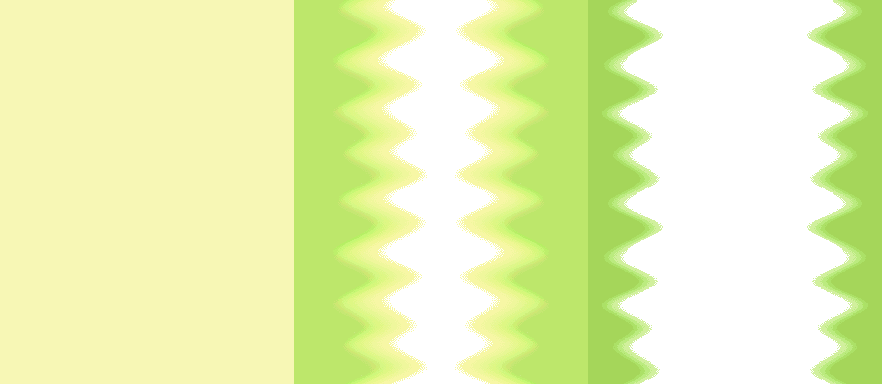
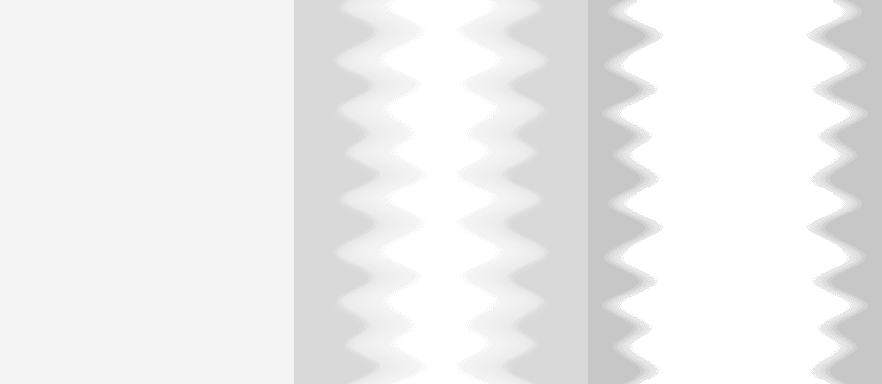
[~] Fix Dream animation & music, fix Ditto music

diff --git a/src/dream/dream.c b/src/dream/dream.c
@@ -10,30 +10,19 @@
 
 void clock_dream(wininf *inf, dream_a *dream)
 {
-    if (inf->time.ditto_anim > 0.1f) {
-        if (dream->b_dream[1].rect.top >= 192) {
-            dream->b_dream[1].rect.top = 0;
-        } else {
-            dream->b_dream[1].rect.top += 1;
-        }
-        if (dream->b_dream[2].rect.top <= 0) {
-            dream->b_dream[2].rect.top = 192;
-        } else {
-            dream->b_dream[2].rect.top -= 1;
-        }
+    if (inf->time.ditto_anim > 0.05f) {
+        if (dream->b_dream[1].rect.top >= 192) dream->b_dream[1].rect.top = 0;
+        else dream->b_dream[1].rect.top += 1;
+        if (dream->b_dream[2].rect.top <= 0) dream->b_dream[2].rect.top = 192;
+        else dream->b_dream[2].rect.top -= 1;
         inf->time.ditto_anim = 0.0f;
     }
-    if (inf->time.ditto_anim2 > 1.0f) {
-        // int rdm = rand() % 360;
-        // my_printf("%d\n", rdm);
+    if (inf->time.ditto_anim2 > 0.05f) {
         dream->color += 1;
-        my_printf("%d\n", dream->color);
         if (dream->color >= 360) dream->color = 0;
         sfColor changecolor = my_hsvtorgb(dream->color, 100, 100);
-        // sfColor changecolor = {rand() % 255, rand() % 255, rand() % 255, 255};
-        for (int i = 0; i < 3; i++) {
+        for (int i = 0; i < 3; i++)
             sfSprite_setColor(inf->dream->b_dream[i].sprite, changecolor);
-        }
         inf->time.ditto_anim2 = 0.0f;
     }
 }
@@ -42,7 +31,7 @@ void draw_dream(wininf *inf)
 {
     if (inf->dream == NULL) inf->dream = create_dream(inf);
     if (inf->dream->plan != DELETEDREAM) {
-        if (sfMusic_getStatus(inf->dream->music) == 0)
+        if (sfMusic_getStatus(inf->dream->music) != sfPlaying)
             sfMusic_play(inf->dream->music);
         clock_dream(inf, inf->dream);
         for (int i = 0; i < 3; i++)

diff --git a/src/dream/create_dream.c b/src/dream/create_dream.c
@@ -14,17 +14,22 @@ dream_a *create_dream(wininf *inf)
 {
     dream_a *dream = malloc(sizeof(dream_a));
     dream->plan = DREAMINIT;
-    dream->b_dream[0] = c_eles("dreams.png", (sfVector2f) {0, 0},
+    dream->b_dream[0] = c_eles("dreams_1.png", (sfVector2f) {0, 0},
     (sfIntRect) {0, 0, 882 / 3, 384});
     dream->b_dream[0].resize = (sfVector2f) {6.530612245, 5.625};
-    dream->b_dream[1] = c_eles("dreams.png", (sfVector2f) {0, 0},
+    dream->b_dream[1] = c_eles("dreams_1.png", (sfVector2f) {0, 0},
     (sfIntRect) {882 / 3, 0, 882 / 3, 384});
     dream->b_dream[1].resize = (sfVector2f) {6.530612245, 5.625};
-    dream->b_dream[2] = c_eles("dreams.png", (sfVector2f) {0, 0},
+    dream->b_dream[2] = c_eles("dreams_1.png", (sfVector2f) {0, 0},
     (sfIntRect) {882 / 3 + 882 / 3, 192, 882 / 3, 384});
     dream->b_dream[2].resize = (sfVector2f) {6.530612245, 5.625};
     dream->color = 0;
+    sfColor changecolor = my_hsvtorgb(dream->color, 50, 100);
+    for (int i = 0; i < 3; i++) {
+        sfSprite_setColor(dream->b_dream[i].sprite, changecolor);
+    }
     dream->music =
     sfMusic_createFromFile("music/04_welcome_to_the_world_of_pokemon.ogg");
+    sfMusic_setLoop(dream->music, sfTrue);
     return dream;
 }

diff --git a/src/ditto/create_ditto.c b/src/ditto/create_ditto.c
@@ -52,6 +52,6 @@ ditto_a *create_ditto(wininf *inf)
     sfSprite_setColor(cditto->ditto[3].sprite,
         (sfColor){ditto3.r, ditto3.g, ditto3.b, ditto3.a - 125});
     cditto->conga = sfMusic_createFromFile("music/00_conga.ogg");
-    cditto->color = my_hsvtorgb(rand() % 360, 29, 100);
-    return cditto;
+    sfMusic_setLoop(cditto->conga, sfTrue);
+    cditto->color = my_hsvtorgb(rand() % 360, 29, 100); return cditto;
 }

diff --git a/src/ditto/ditto.c b/src/ditto/ditto.c
@@ -55,7 +55,7 @@ void draw_ditto(wininf *inf)
         inf->ditto = create_ditto(inf);
     }
     if (inf->ditto->plan != DELETEDITTO) {
-        if (sfMusic_getStatus(inf->ditto->conga) == 0) {
+        if (sfMusic_getStatus(inf->ditto->conga) != sfPlaying) {
             sfMusic_play(inf->ditto->conga);
         }
         ditto_clock(inf, inf->ditto);

diff --git a/src/scene_handling/scene_handler.c b/src/scene_handling/scene_handler.c
@@ -26,7 +26,6 @@ void handle_scene(wininf *infos, player *p)
             draw_dungeon(infos, p);
         player_direction_management(infos, p);
         draw_player(infos, p);
-
         if (infos->transition) {
             update_transition(infos, *p);
             sfRenderWindow_drawRectangleShape(infos->win, infos->transi, 0);
